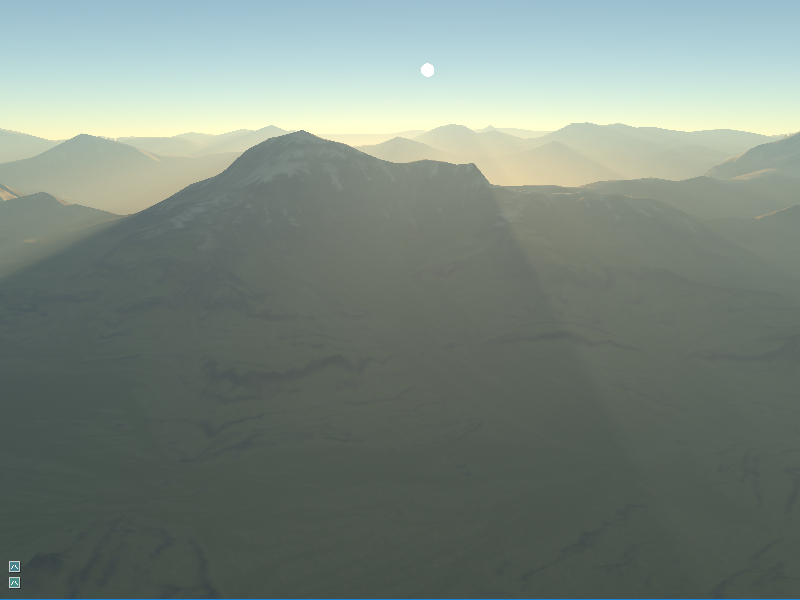
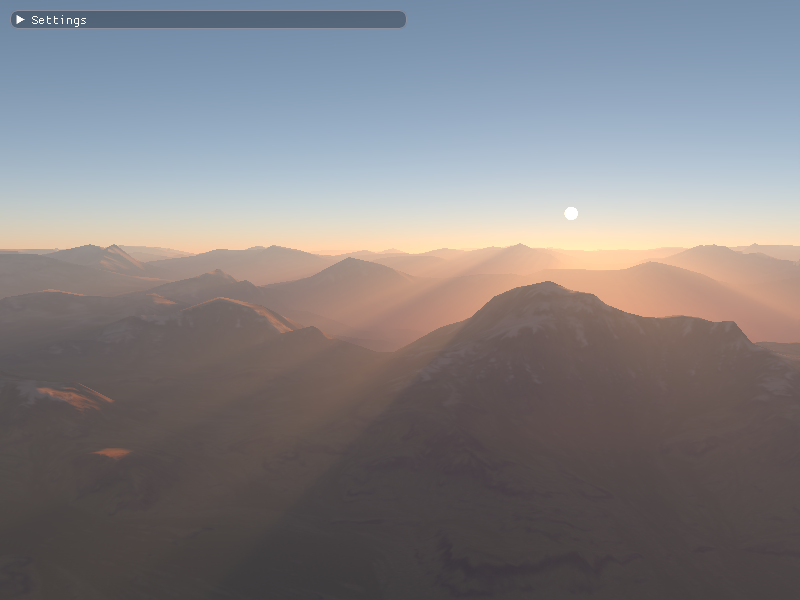
Epipolar scattering FX: added Ozone approximation that fixes yellow-green sky

diff --git a/PostProcess/EpipolarLightScattering/src/EpipolarLightScattering.cpp b/PostProcess/EpipolarLightScattering/src/EpipolarLightScattering.cpp
@@ -2231,6 +2231,7 @@ void EpipolarLightScattering::PrepareForNewFrame(FrameAttribs&                  
 
     // clang-format off
     bool bRecomputeSctrCoeffs = m_PostProcessingAttribs.bUseCustomSctrCoeffs    != PPAttribs.bUseCustomSctrCoeffs    ||
+                                m_PostProcessingAttribs.bUseOzoneApproximation  != PPAttribs.bUseOzoneApproximation  ||
                                 m_PostProcessingAttribs.fAerosolDensityScale    != PPAttribs.fAerosolDensityScale    ||
                                 m_PostProcessingAttribs.fAerosolAbsorbtionScale != PPAttribs.fAerosolAbsorbtionScale ||
                                 (PPAttribs.bUseCustomSctrCoeffs && 
@@ -2621,6 +2622,22 @@ void EpipolarLightScattering::ComputeScatteringCoefficients(IDeviceContext* pDev
         }
         // Air molecules do not absorb light, so extinction coefficient is only caused by out-scattering
         f4RayleighExtinctionCoeff = f4TotalRayleighSctrCoeff;
+    }
+
+    if (m_PostProcessingAttribs.bUseOzoneApproximation && !m_PostProcessingAttribs.bUseCustomSctrCoeffs)
+    {
+        // As noted in [1], taking into account ozone particle absorption is essential to reproduce
+        // the blue of the zenith sky. Without ozone, the sky can appear too yellow overall, especially
+        // at sunset/sunrise. Ozone should be concentrated 32km up in the sky, however the author suggests
+        // to use the same distribution as the Rayleigh particle distribution, which allows simply adding
+        // ozone absorption to Rayleigh absorption.
+        //
+        // 1. Physically Based Sky, Atmosphere and Cloud Rendering in Frostbite, Sebastien Hillaire
+        //    (Physically-Based Shading in Theory and Practice, Siggraph 2016)
+
+        // Add Ozone absorption coefficients from [1] to total Rayleigh extinction coefficient
+        const float4 f4OzoneAbsorption = float4{3.426f, 8.298f, 0.356f, 0.f} * 6e-7f;
+        m_MediaParams.f4RayleighExtinctionCoeff += f4OzoneAbsorption;
     }
 
     // Calculate angular and total scattering coefficients for Mie scattering:

diff --git a/shaders_inc/EpipolarLightScatteringStructures.fxh.h b/shaders_inc/EpipolarLightScatteringStructures.fxh.h
@@ -176,13 +176,14 @@
 "    // Atmospheric extinction evaluation mode.\n"
 "    int  iExtinctionEvalMode                DEFAULT_VALUE(EXTINCTION_EVAL_MODE_EPIPOLAR);\n"
 "\n"
+"    // Whether to use Ozone approximation (ignored when custom scattering coefficients are used).\n"
+"    BOOL bUseOzoneApproximation             DEFAULT_VALUE(TRUE);\n"
 "    // Whether to use custom scattering coefficients.\n"
 "    BOOL bUseCustomSctrCoeffs               DEFAULT_VALUE(FALSE);\n"
 "    // Aerosol density scale to use for scattering coefficient computation.\n"
 "    float fAerosolDensityScale              DEFAULT_VALUE(1.f);\n"
 "    // Aerosol absorbtion scale to use for scattering coefficient computation.\n"
 "    float fAerosolAbsorbtionScale           DEFAULT_VALUE(0.1f);\n"
-"    uint PaddingA0;\n"
 "\n"
 "    // Custom Rayleigh coefficients.\n"
 "    float4 f4CustomRlghBeta                 DEFAULT_VALUE(float4(5.8e-6f, 13.5e-6f, 33.1e-6f, 0.f));\n"
@@ -201,7 +202,7 @@
 "    BOOL   bIsLightOnScreen                 DEFAULT_VALUE(FALSE);\n"
 "    float  fNumCascades                     DEFAULT_VALUE(0);\n"
 "    float  fFirstCascadeToRayMarch          DEFAULT_VALUE(0);\n"
-"    int    PaddingB0;\n"
+"    int    Padding0;\n"
 "};\n"
 "#ifdef CHECK_STRUCT_ALIGNMENT\n"
 "    CHECK_STRUCT_ALIGNMENT(EpipolarLightScatteringAttribs);\n"
